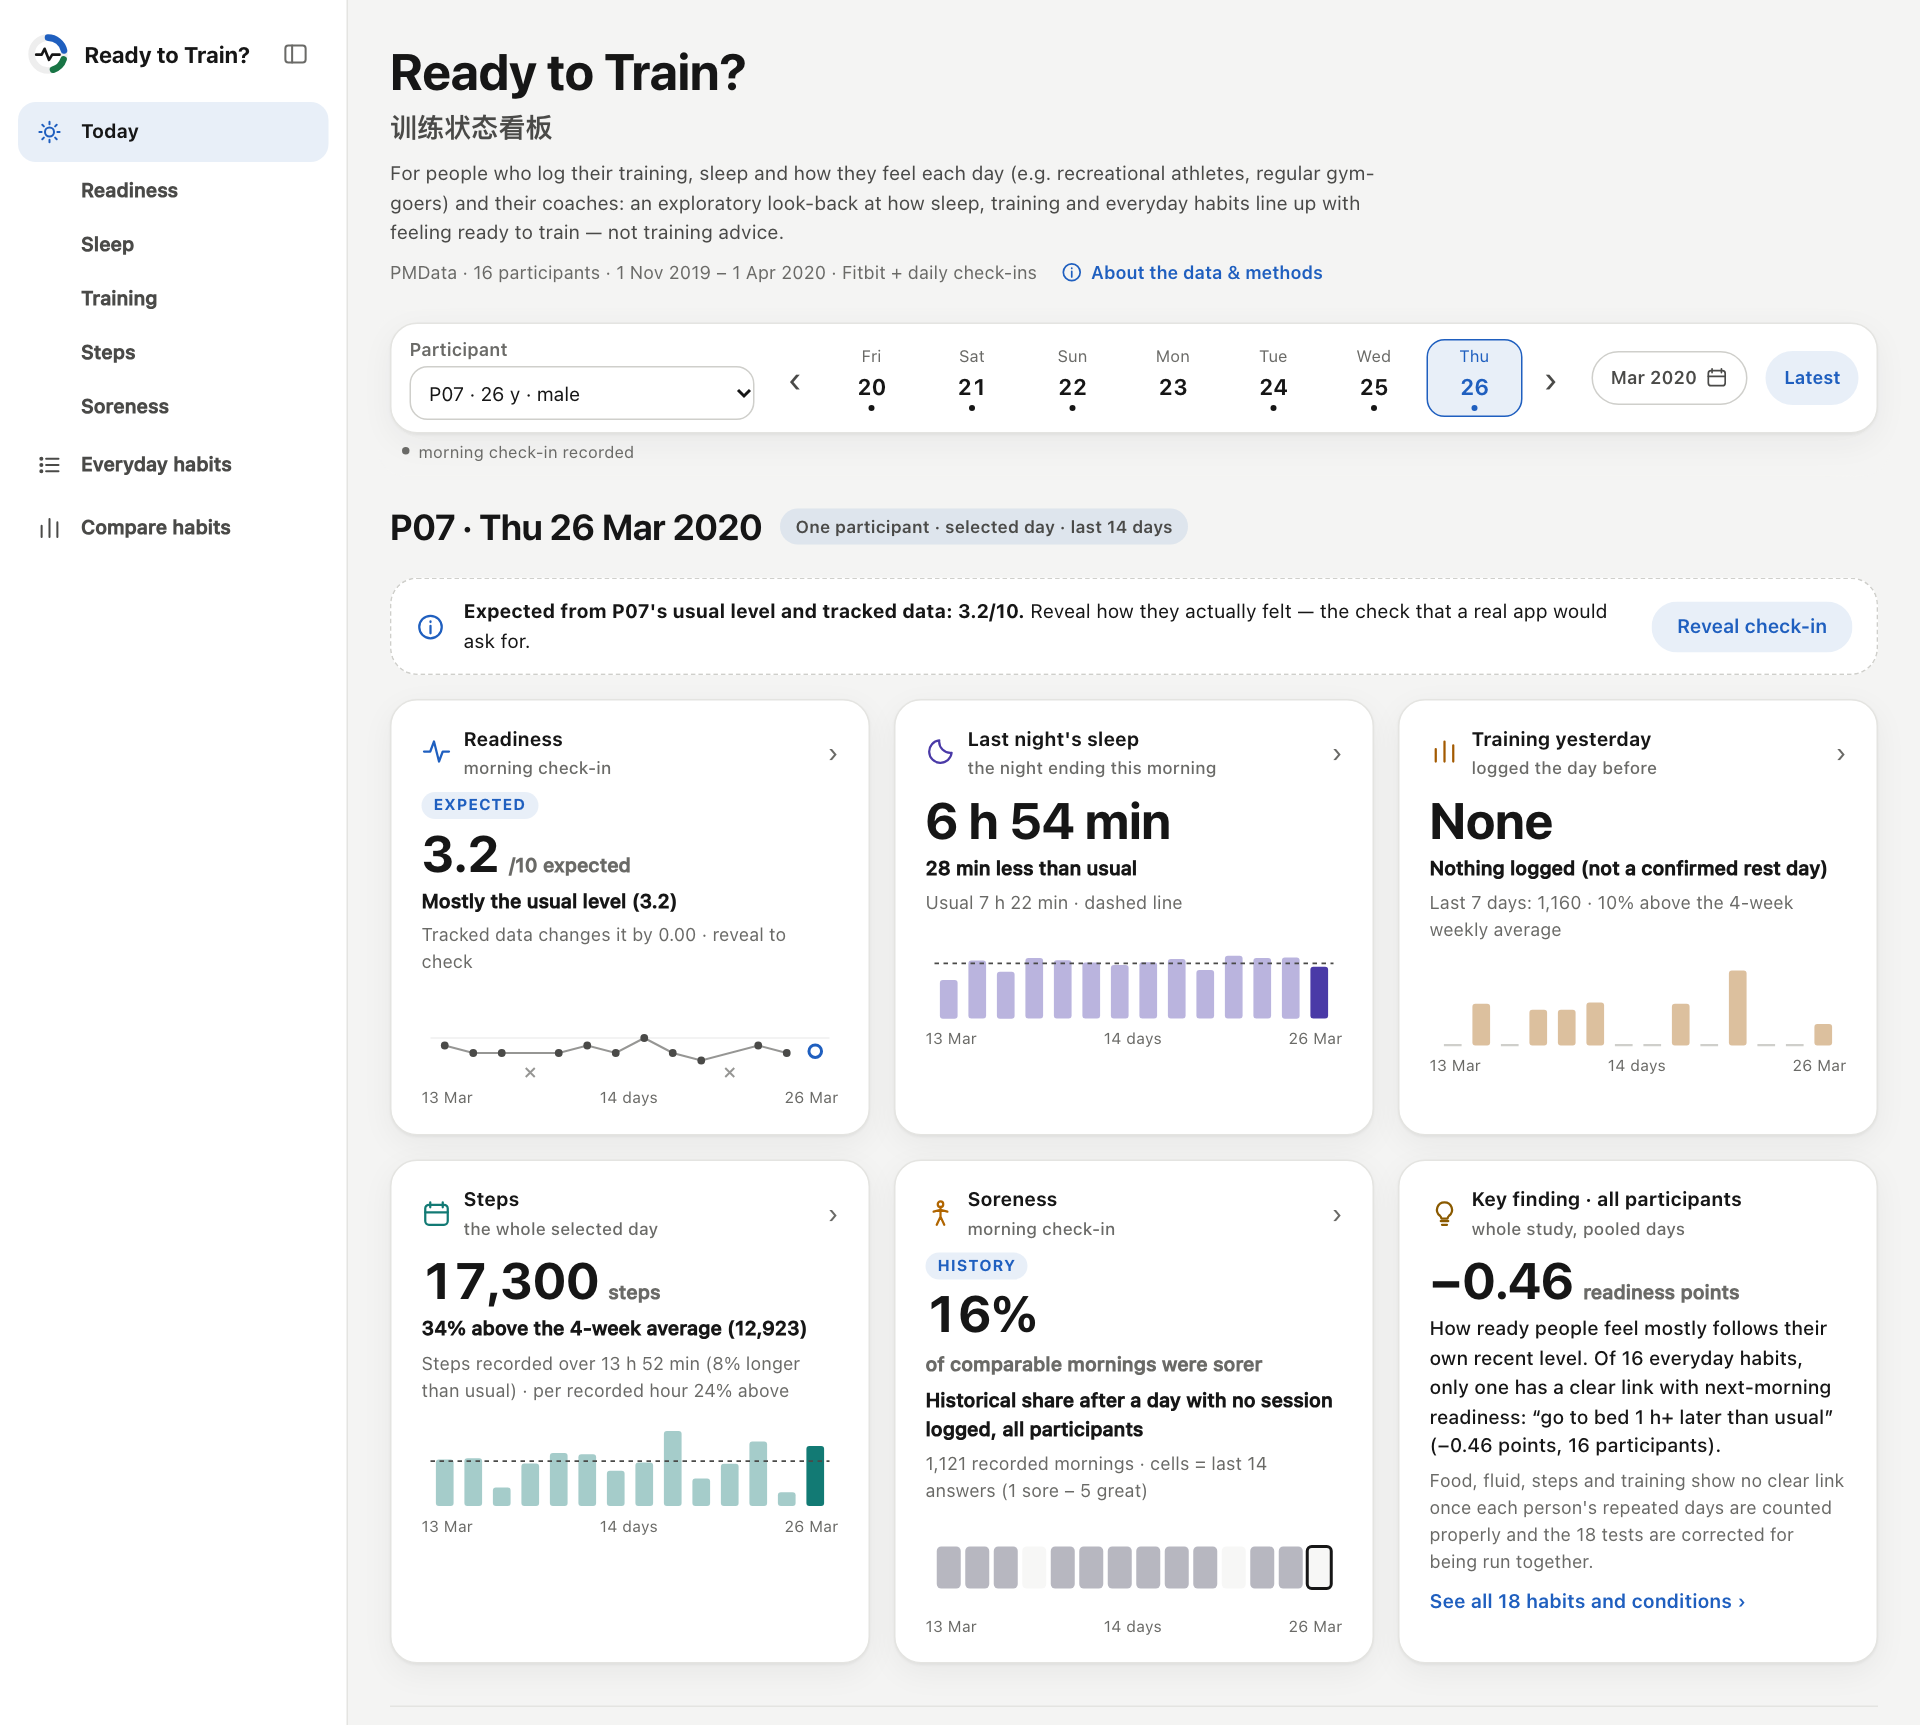
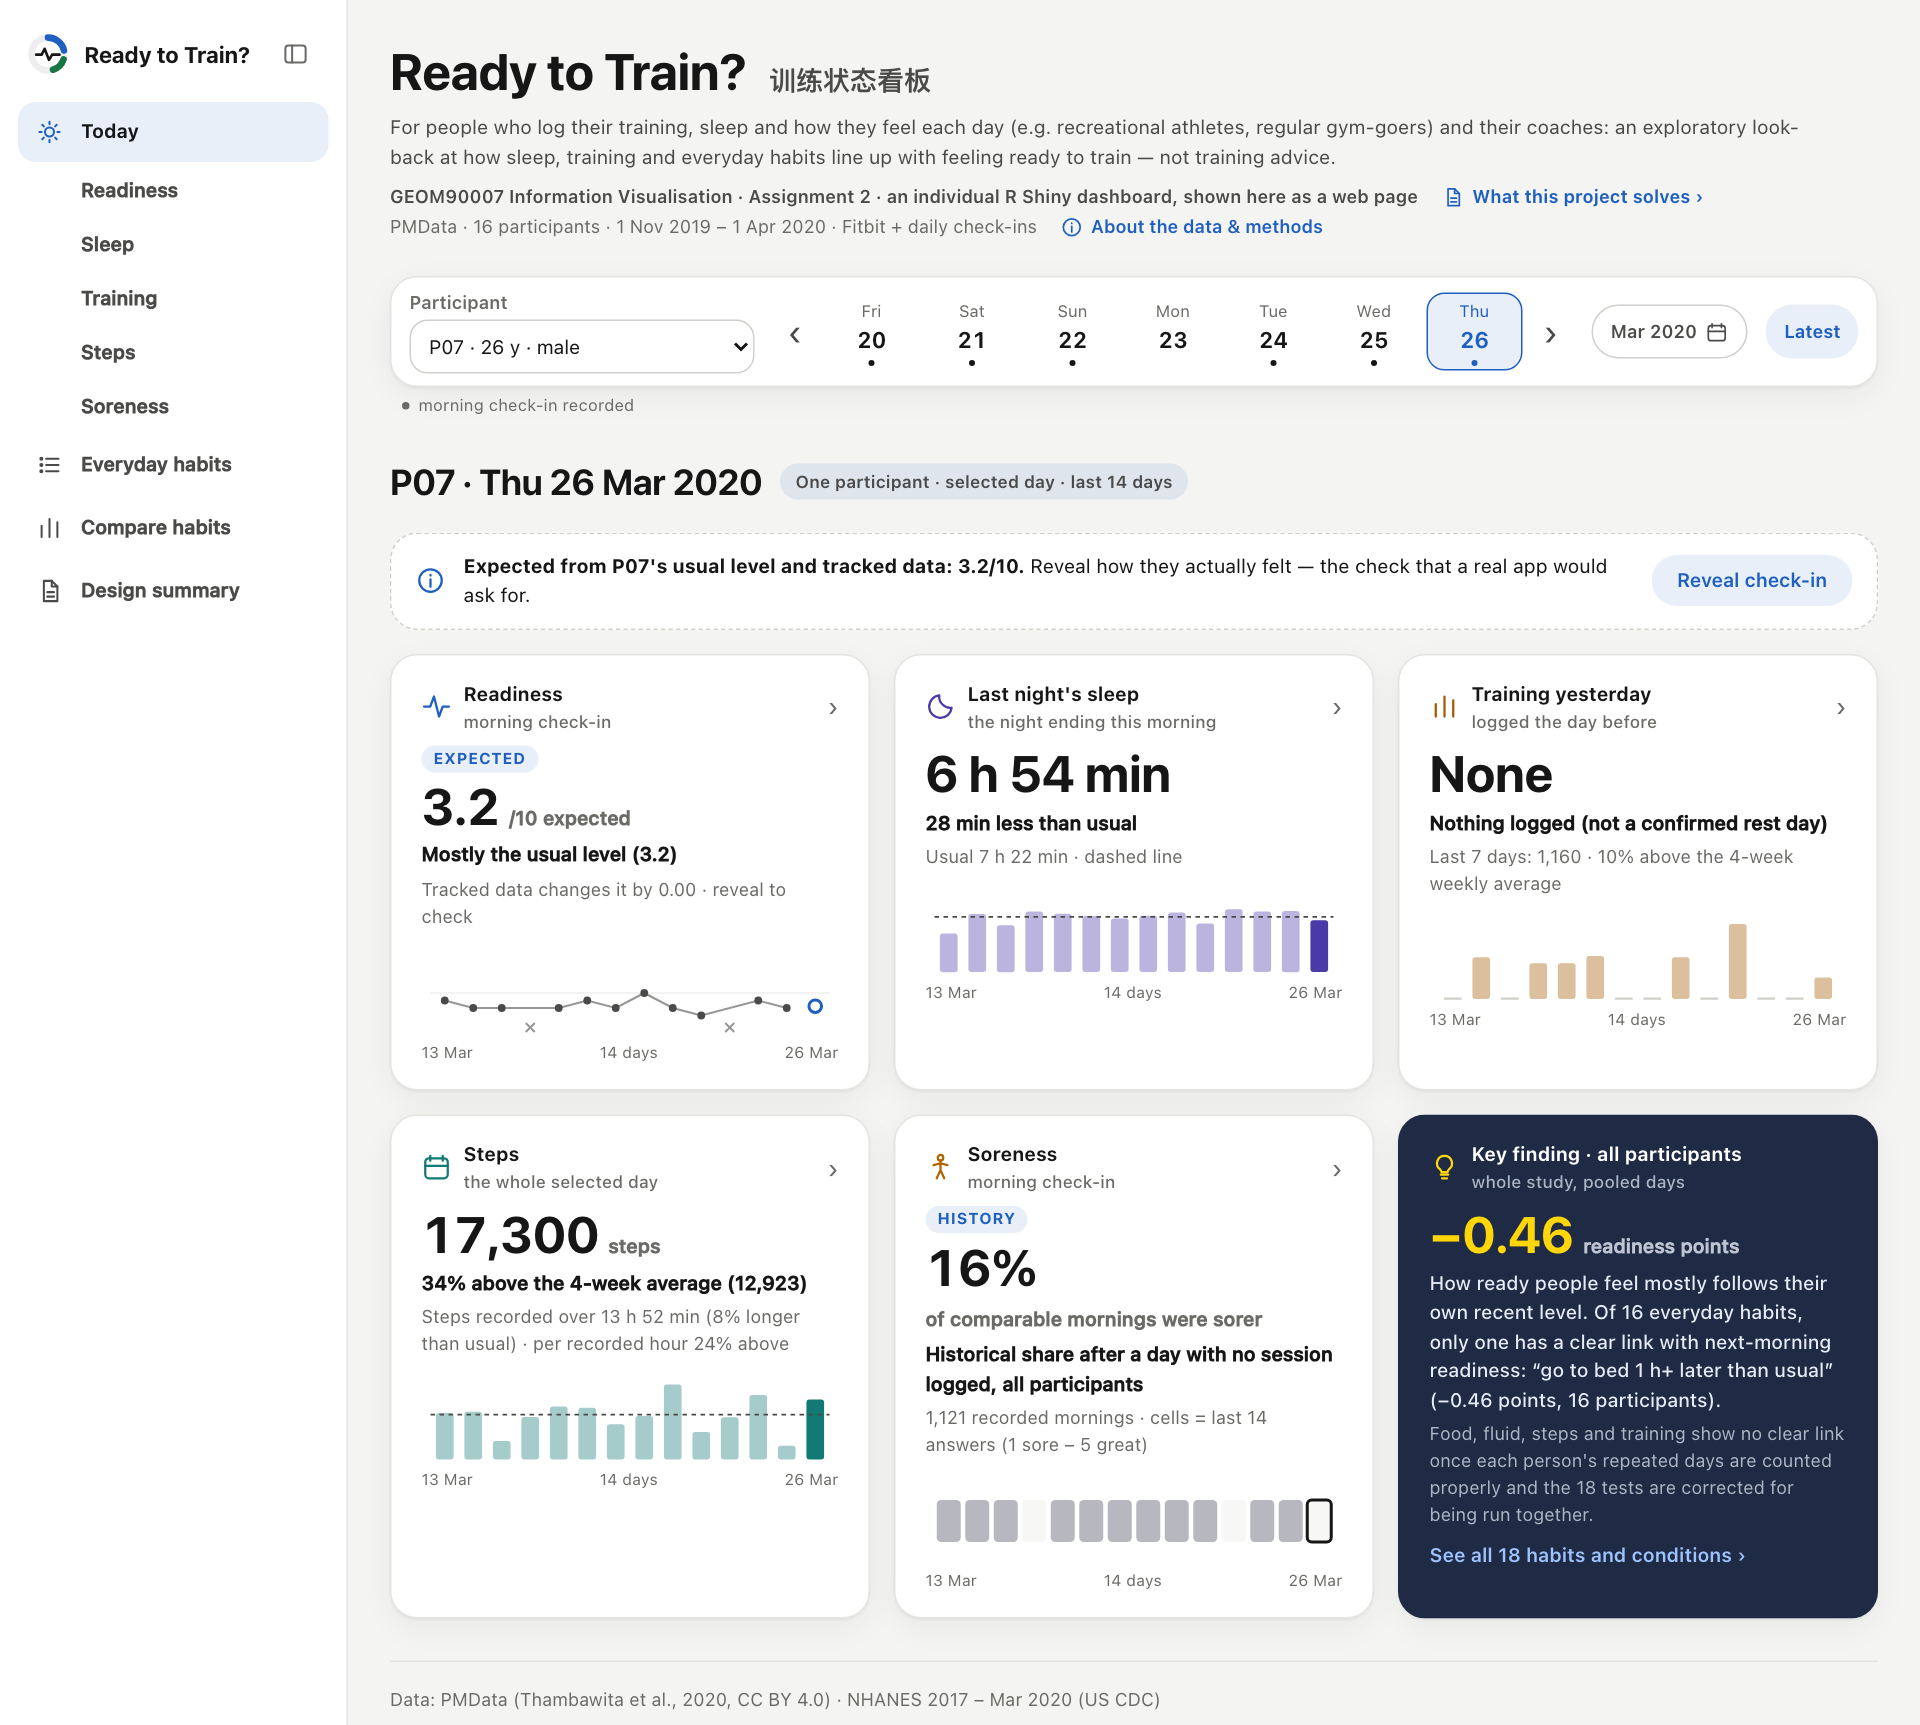
Tune the first screen for laptops
The two names share one line and the purpose fits two lines, a new line under it says what this is (GEOM90007
Assignment 2, an R Shiny dashboard shown as a web page) and links to "What this project solves", and the key
finding card is back in the R app's dark navy with the number in yellow. On a 1280 x 800 screen the second row
of cards, with the key finding, now starts above the fold.

diff --git a/web/css/app.css b/web/css/app.css
@@ -44,9 +44,13 @@
 
 /* ---- the head ---- */
 .head { margin-bottom: var(--s-4); }
-.head .h1-alt { margin: var(--s-1) 0 var(--s-2); font-size: var(--t-lg); font-weight: 600; color: var(--ink-2); }
-.head .purpose { margin: 0 0 var(--s-2); max-width: 82ch; color: var(--ink-2); font-size: var(--t-sm); }
-.head .data-line { margin: 0; display: flex; flex-wrap: wrap; align-items: center; gap: var(--s-1) var(--s-4); color: var(--ink-3); font-size: var(--t-xs); }
+.head h1 .h1-alt { margin-left: var(--s-2); font-size: var(--t-lg); font-weight: 600; color: var(--ink-2); letter-spacing: 0; white-space: nowrap; }
+.head .purpose { margin: var(--s-2) 0; max-width: 118ch; color: var(--ink-2); font-size: var(--t-sm); }
+.head .project-line, .head .data-line { margin: 0; display: flex; flex-wrap: wrap; align-items: center; gap: var(--s-1) var(--s-4); font-size: var(--t-xs); }
+.head .project-line { color: var(--ink-2); font-weight: 600; margin-bottom: 2px; }
+.head .data-line { color: var(--ink-3); }
+.solves-link { display: inline-flex; align-items: center; gap: 5px; font-weight: 650; }
+.solves-link .metric-icon { width: 15px; height: 15px; }
 .link-button { display: inline-flex; align-items: center; gap: 5px; padding: 0; border: 0; background: none; color: var(--accent); font-size: var(--t-xs); font-weight: 600; cursor: pointer; }
 .link-button:hover { text-decoration: underline; text-underline-offset: 3px; }
 .link-button .metric-icon { width: 15px; height: 15px; }
@@ -262,3 +266,16 @@ dialog.about::backdrop { background: rgba(10, 12, 18, .45); }
 .page { min-height: 40vh; }
 /* a chart's tooltip keeps its line breaks (data-tip="Mon 2 Mar&#10;6 h 54 min") */
 .tip { white-space: pre-line; max-width: 300px; }
+
+/* the key finding card keeps the R app's look (dark navy, the number in yellow), so the study's one finding
+   stands out among the five snapshot cards */
+.home-card.insight-card { background: #1f2a44; border-color: transparent; color: #e6ebf5; }
+.insight-card .home-card-name > span:first-child { color: #ffffff; }
+.insight-card .card-when, .insight-card .home-card-body small { color: rgba(230, 235, 245, .72); }
+.insight-card .home-card-body p { color: #e6ebf5; }
+.insight-card .home-card-value strong { color: #ffd60a; }
+.insight-card .home-card-value span { color: rgba(230, 235, 245, .8); }
+.insight-card .home-card-title .metric-icon { color: #ffd60a; }
+.insight-card .insight-link { color: #9cc3ff; }
+:root[data-mode="dark"] .home-card.insight-card { background: #26314f; }
+@media (prefers-color-scheme: dark) { :root:not([data-mode="light"]) .home-card.insight-card { background: #26314f; } }

diff --git a/web/js/i18n.js b/web/js/i18n.js
@@ -108,6 +108,8 @@ addWords({
     "app.purpose": "For people who log their training, sleep and how they feel each day (e.g. recreational athletes, regular gym-goers) and their coaches: an exploratory look-back at how sleep, training and everyday habits line up with feeling ready to train — not training advice.",
     "app.data": "PMData · {n} participants · {first} – {last} · Fitbit + daily check-ins",
     "app.about": "About the data & methods",
+    "app.project": "GEOM90007 Information Visualisation · Assignment 2 · an individual R Shiny dashboard, shown here as a web page",
+    "app.solves": "What this project solves",
     "ui.lang": "中文",
     "ui.mode": "Light / dark",
     "ui.fold": "Fold the menu",
@@ -262,6 +264,8 @@ addWords({
     "app.purpose": "写给每天记录训练、睡眠和自我感受的人（比如业余运动员、常去健身房的人）和他们的教练：回看睡眠、训练和日常习惯跟“准备好训练了吗”的感受怎样对得上。只做回看和探索，不是训练建议。",
     "app.data": "PMData · {n} 名参与者 · {first} – {last} · Fitbit 手环 + 每日晨间自评",
     "app.about": "关于数据和方法",
+    "app.project": "GEOM90007 信息可视化 · 作业 2 · 个人完成的 R Shiny 看板，这里是网页版",
+    "app.solves": "这个项目解决什么问题",
     "ui.lang": "EN",
     "ui.mode": "浅色 / 深色",
     "ui.fold": "收起菜单",

diff --git a/web/js/app.js b/web/js/app.js
@@ -180,9 +180,13 @@ function sidebar() {
 function head() {
   const zh = getLang() === "zh";
   const title = zh ? t("app.alt") : t("app.name"), alt = zh ? t("app.name") : t("app.alt");
+  // laptop first: the two names share one line, and the line under the purpose says what this is (a course
+  // assignment, shown as a web page) with the way to the brief, so a first-time reader knows where to start
   return `<div class="head"><div>
-    <h1>${esc(title)}</h1><p class="h1-alt" lang="${zh ? "en" : "zh-CN"}">${esc(alt)}</p>
+    <h1>${esc(title)} <span class="h1-alt" lang="${zh ? "en" : "zh-CN"}">${esc(alt)}</span></h1>
     <p class="purpose">${esc(t("app.purpose"))}</p>
+    <p class="project-line"><span>${esc(t("app.project"))}</span>
+      ${state.page === "report" ? "" : `<a class="solves-link" href="${hashFor("report", "overview")}">${icon("doc", 16)}${esc(t("app.solves"))} ›</a>`}</p>
     <p class="data-line"><span>${esc(t("app.data", { n: study.people.length, first: dayLabel(study.first, { weekday: false }), last: dayLabel(study.last, { weekday: false }) }))}</span>
       <button type="button" class="link-button" id="about-open">${icon("info", 16)}${esc(t("app.about"))}</button></p>
   </div></div>`;
